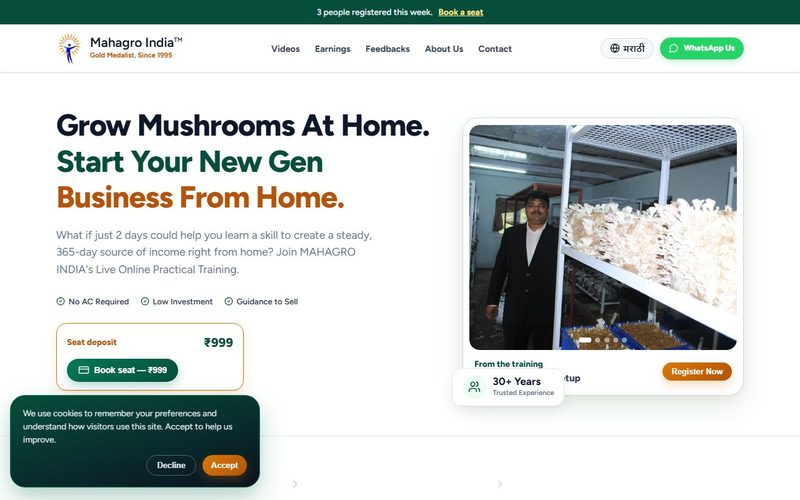
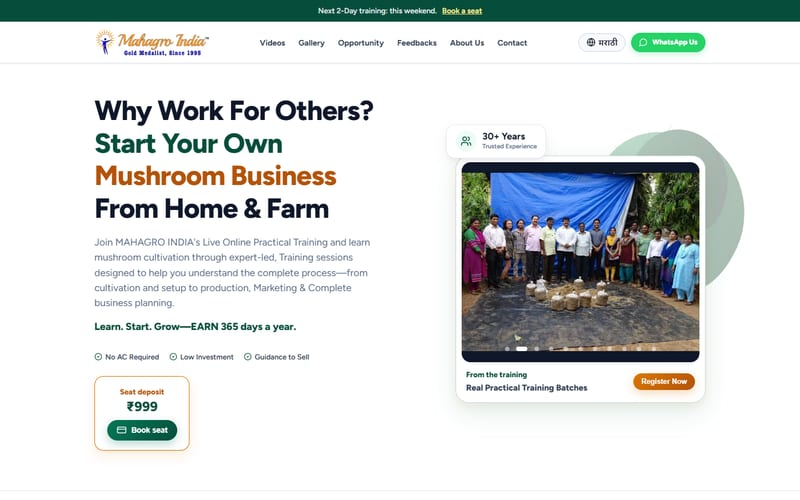
design: professional project display on the Our work page
- Client work shown as a wide editorial case study row
- Templates as a two-column catalogue: large preview, industry, name,
  one-line result, price and Case study / Live site links
- Section headers with hairline rules and counts
- Fresh MAHAGRO preview without the cookie popup

diff --git a/components/ProjectsShowcase.tsx b/components/ProjectsShowcase.tsx
@@ -181,94 +181,132 @@ export default function ProjectsShowcase({ limit, showFilters = true, isHomepage
     }).slice(0, limit || PROJECTS_DATA.length);
   }
 
-  const renderCard = (project: Project, index: number) => (
-            <motion.div
-              key={project.id}
-              initial={{ opacity: 0, y: 20 }}
-              whileInView={{ opacity: 1, y: 0 }}
-              viewport={{ once: true }}
-              transition={{ delay: index * 0.1 }}
-              whileHover={{ y: -6 }}
-              className="bg-white overflow-hidden flex flex-col justify-between relative group rounded-2xl border border-[var(--border-default)] hover:border-[var(--accent-strong)] transition-colors"
-            >
-              {/* Preview Banner Top */}
-              {/* Every screenshot sits in the same slim browser frame. Client
-                  sites look nothing like each other, so a shared chrome is what
-                  makes the grid read as one portfolio rather than a scrapbook.
-                  Badges sit bottom-left to stay clear of the chrome strip. */}
-              <div className="h-40 sm:h-44 bg-slate-900 relative overflow-hidden flex items-end justify-center px-3 pt-4">
-                <div className="w-full h-full rounded-t-lg overflow-hidden border border-white/10 border-b-0 bg-black flex flex-col shadow-[0_-8px_30px_rgba(0,0,0,0.35)]">
-                  <div className="flex items-center gap-1.5 px-3 py-2 border-b border-white/10 bg-white/[0.04] flex-shrink-0">
-                    <span className="w-2 h-2 rounded-full bg-white/25" />
-                    <span className="w-2 h-2 rounded-full bg-white/25" />
-                    <span className="w-2 h-2 rounded-full bg-white/25" />
-                  </div>
-                  <div className="flex-1 overflow-hidden">
-                    {project.previewImage ? (
-                      <img
-                        src={project.previewImage}
-                        alt={`${project.title} live preview`}
-                        className="w-full h-full object-cover object-top"
-                        loading="lazy"
-                      />
-                    ) : (
-                      <div className="p-4 w-full h-full flex items-center justify-center">
-                        <ProjectGraphicSVG type={project.svgType} />
-                      </div>
-                    )}
-                  </div>
-                </div>
-              </div>
+  // "Veyra Residences: 3D Real Estate Launch Website" -> name + what it is.
+  const splitTitle = (title: string) => {
+    const i = title.indexOf(":");
+    return i === -1 ? { name: title, kind: "" } : { name: title.slice(0, i), kind: title.slice(i + 1).trim() };
+  };
 
-              {/* Card Body */}
-              <div className="p-5 flex-1 flex flex-col justify-between space-y-3">
-                <div>
-                  <h3 className="text-xl font-semibold text-slate-900 group-hover:text-slate-600 transition-colors">
-                    {project.title}
-                  </h3>
-                  {project.results?.primary && (
-                    <p className="text-sm text-slate-600 mt-1.5">
-                      {project.results.primary}
-                    </p>
-                  )}
-                  {project.forSale && (
-                    <p className="mt-3 text-sm font-semibold text-slate-900">
-                      <span style={{ color: "var(--accent)" }}>
-                        {project.forSale.priceDisplayINR}
-                      </span>
-                      <span className="text-slate-500 font-normal">
-                        {" "}· ready to buy
-                      </span>
-                    </p>
-                  )}
-                </div>
-
-                {/* Card Action Buttons */}
-                <div className="pt-4 flex items-center justify-between">
-                  <button
-                    type="button"
-                    onClick={() => setActiveModalProject(project)}
-                    className="text-xs font-bold text-slate-900 hover:text-black transition-colors inline-flex items-center space-x-1"
-                  >
-                    <span>View case study</span>
-                    <ArrowRight className="w-3.5 h-3.5 text-black" />
-                  </button>
-
-                  {project.demoUrl && (
-                    <a
-                      href={project.demoUrl}
-                      target="_blank"
-                      rel="noopener noreferrer"
-                      className="p-2 rounded-xl bg-slate-900 text-white hover:bg-white hover:text-black transition-colors"
-                      title="View Live Site"
-                    >
-                      <ExternalLink className="w-4 h-4" />
-                    </a>
-                  )}
-                </div>
-              </div>
-            </motion.div>
+  // Plain render helpers rather than nested components, so opening a case
+  // study (a state change) doesn't remount and reload every preview image.
+  const renderPreview = (project: Project, priority = false) => (
+    <button
+      type="button"
+      onClick={() => setActiveModalProject(project)}
+      aria-label={`Open the ${splitTitle(project.title).name} case study`}
+      className="block w-full overflow-hidden rounded-xl border border-[var(--border-default)] bg-slate-100 aspect-[16/10] group/preview"
+    >
+      {project.previewImage ? (
+        <img
+          src={project.previewImage}
+          alt={`${splitTitle(project.title).name} website preview`}
+          width={800}
+          height={500}
+          loading={priority ? "eager" : "lazy"}
+          decoding="async"
+          className="w-full h-full object-cover object-top transition-transform duration-500 ease-out group-hover/preview:scale-[1.03]"
+        />
+      ) : (
+        <div className="w-full h-full flex items-center justify-center p-6 bg-slate-900">
+          <ProjectGraphicSVG type={project.svgType} />
+        </div>
+      )}
+    </button>
   );
+
+  const renderActions = (project: Project) => (
+    <div className="flex items-center gap-5 text-sm font-semibold">
+      <button
+        type="button"
+        onClick={() => setActiveModalProject(project)}
+        className="inline-flex items-center gap-1.5 text-slate-900 hover:underline underline-offset-4"
+      >
+        Case study
+        <ArrowRight className="w-4 h-4" />
+      </button>
+      {project.demoUrl && (
+        <a
+          href={project.demoUrl}
+          target="_blank"
+          rel="noopener noreferrer"
+          className="inline-flex items-center gap-1.5 text-slate-600 hover:text-slate-900 hover:underline underline-offset-4"
+        >
+          Live site
+          <ExternalLink className="w-3.5 h-3.5" />
+        </a>
+      )}
+    </div>
+  );
+
+  // Client work: one wide, editorial row per project, so a paid engagement
+  // reads as a case study rather than one more tile in a grid.
+  const renderFeatured = (project: Project) => {
+    const { name, kind } = splitTitle(project.title);
+    const results = [project.results.primary, project.results.secondary, project.results.roi].filter(Boolean);
+    return (
+      <article key={project.id} className="grid gap-8 lg:grid-cols-[1.3fr_1fr] lg:gap-12 items-center">
+        {renderPreview(project, true)}
+        <div>
+          <p className="text-xs font-semibold uppercase tracking-[0.14em] text-slate-500">
+            Client project · {project.clientIndustry}
+          </p>
+          <h4 className="mt-3 text-3xl sm:text-4xl font-semibold tracking-tight text-slate-900">{name}</h4>
+          {kind && <p className="mt-1 text-base text-slate-500">{kind}</p>}
+          <p className="mt-4 text-[15px] leading-relaxed text-slate-700">{project.tagline}</p>
+          <ul className="mt-6 border-t border-[var(--border-default)]">
+            {results.map((r) => (
+              <li key={r} className="flex items-start gap-3 border-b border-[var(--border-default)] py-3 text-sm text-slate-900">
+                <CheckCircle2 className="mt-0.5 w-4 h-4 flex-shrink-0 text-slate-900" />
+                {r}
+              </li>
+            ))}
+          </ul>
+          <div className="mt-6">
+            {renderActions(project)}
+          </div>
+        </div>
+      </article>
+    );
+  };
+
+  // Templates: a calm two-column catalogue. Large previews do the selling;
+  // the text underneath answers "what is it" and "what does it cost".
+  const renderCard = (project: Project, index: number) => {
+    const { name, kind } = splitTitle(project.title);
+    return (
+      <motion.article
+        key={project.id}
+        initial={{ opacity: 0, y: 12 }}
+        whileInView={{ opacity: 1, y: 0 }}
+        viewport={{ once: true, margin: "-60px" }}
+        transition={{ duration: 0.4, delay: (index % 2) * 0.06 }}
+        className="flex flex-col"
+      >
+        {renderPreview(project)}
+        <div className="mt-5 flex flex-1 flex-col">
+          <p className="text-xs font-semibold uppercase tracking-[0.14em] text-slate-500">
+            {project.clientIndustry}
+          </p>
+          <h4 className="mt-2 text-2xl font-semibold tracking-tight text-slate-900">{name}</h4>
+          {kind && <p className="mt-0.5 text-sm text-slate-500">{kind}</p>}
+          <p className="mt-3 text-sm leading-relaxed text-slate-700">{project.results.primary}</p>
+          <div className="mt-auto pt-5">
+            <div className="flex flex-wrap items-center justify-between gap-4 border-t border-[var(--border-default)] pt-4">
+              {project.forSale ? (
+                <p className="text-sm text-slate-500">
+                  <span className="text-lg font-semibold text-slate-900">{project.forSale.priceDisplayINR}</span>
+                  {" "}one-time
+                </p>
+              ) : (
+                <span />
+              )}
+              {renderActions(project)}
+            </div>
+          </div>
+        </div>
+      </motion.article>
+    );
+  };
 
   return (
     /* On the homepage the showreel starts flush against the band above it,
@@ -359,25 +397,31 @@ export default function ProjectsShowcase({ limit, showFilters = true, isHomepage
             const clientWork = projectsToDisplay.filter((p) => p.engagement === "client");
             const independent = projectsToDisplay.filter((p) => p.engagement === "independent");
             return (
-              <div className="space-y-16">
+              <div className="space-y-24">
                 {clientWork.length > 0 && (
                   <div>
-                    <div className="mb-6">
-                      <h3 className="text-xl sm:text-2xl font-semibold text-slate-900 tracking-tight">Client work</h3>
-                      <p className="text-sm text-slate-500 mt-1">Paid engagements delivered for real businesses.</p>
+                    <div className="mb-10 flex flex-wrap items-end justify-between gap-2 border-b border-[var(--border-default)] pb-4">
+                      <div>
+                        <h3 className="text-xl sm:text-2xl font-semibold text-slate-900 tracking-tight">Client work</h3>
+                        <p className="text-sm text-slate-500 mt-1">Paid engagements delivered for real businesses.</p>
+                      </div>
+                      <span className="hidden sm:inline text-sm text-slate-500 tabular-nums">{String(clientWork.length).padStart(2, "0")}</span>
                     </div>
-                    <div className="grid grid-cols-1 md:grid-cols-2 lg:grid-cols-3 gap-6 lg:gap-8">
-                      {clientWork.map((project, index) => renderCard(project, index))}
+                    <div className="space-y-16">
+                      {clientWork.map((project) => renderFeatured(project))}
                     </div>
                   </div>
                 )}
                 {independent.length > 0 && (
                   <div>
-                    <div className="mb-6">
-                      <h3 className="text-xl sm:text-2xl font-semibold text-slate-900 tracking-tight">Our templates</h3>
-                      <p className="text-sm text-slate-500 mt-1">Ready-built websites and systems we designed ourselves, rebranded and launched for your business.</p>
+                    <div className="mb-10 flex flex-wrap items-end justify-between gap-2 border-b border-[var(--border-default)] pb-4">
+                      <div>
+                        <h3 className="text-xl sm:text-2xl font-semibold text-slate-900 tracking-tight">Our templates</h3>
+                        <p className="text-sm text-slate-500 mt-1">Ready-built websites and systems we designed ourselves, rebranded and launched for your business.</p>
+                      </div>
+                      <span className="hidden sm:inline text-sm text-slate-500 tabular-nums">{String(independent.length).padStart(2, "0")}</span>
                     </div>
-                    <div className="grid grid-cols-1 md:grid-cols-2 lg:grid-cols-3 gap-6 lg:gap-8">
+                    <div className="grid grid-cols-1 md:grid-cols-2 gap-x-10 gap-y-14">
                       {independent.map((project, index) => renderCard(project, index))}
                     </div>
                   </div>
